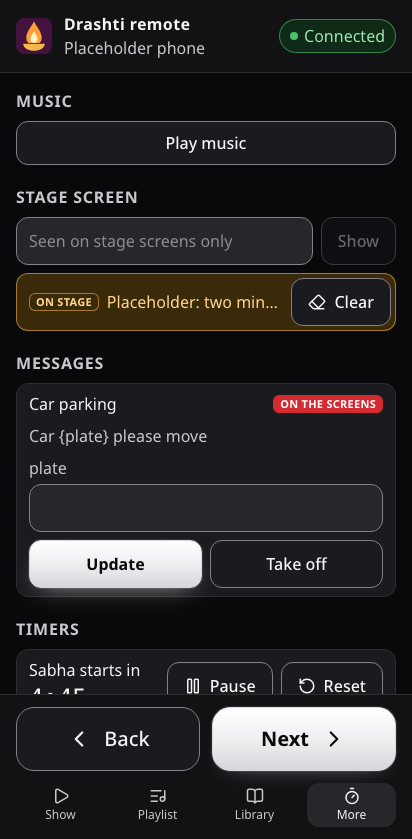
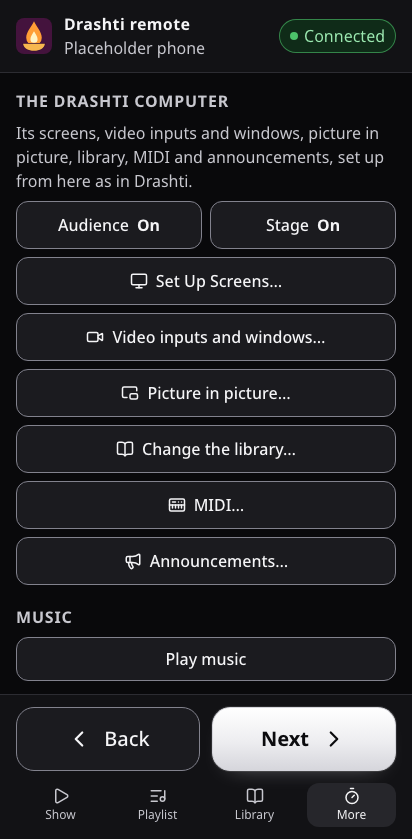
A phone's More starts with The Drashti computer, saying all it sets up there, its picture taken again (Session 54, the phone as a full Drashti)

diff --git a/src/renderer/src/web/remote/DesktopTools.tsx b/src/renderer/src/web/remote/DesktopTools.tsx
@@ -21,8 +21,9 @@ import { PipSheet } from './PipSheet';
 import { ScreensSheet, SwitchButtons } from './ScreensSheet';
 
 /*
- * The phone as a full Drashti (Session 54, the owner's item 3): in More, first, what the operator window's top bar
- * has for the computer's own screens (Audience and Stage, and Screens, opened here as a sheet); and over the
+ * The phone as a full Drashti (Session 54, the owner's item 3): in More, first, The Drashti computer: what the
+ * operator window's top bar has for its screens (Audience and Stage, and Screens, opened here as a sheet), then a
+ * sheet each for its video inputs and windows, picture in picture, library, MIDI and announcements; and over the
  * remote, the sheet open now and the window's questions asked on the phone: Keep these screens?, with its
  * countdown, once a change of this phone's waits for it (or the Screens sheet is open), and "Turn Audience off?"
  * before a switch goes off while its screens show something.
@@ -33,10 +34,11 @@ export function DesktopTools() {
   return (
     <section className="space-y-2" aria-labelledby="remote-desktop-title" data-testid="remote-desktop">
       <h2 id="remote-desktop-title" className="text-base font-bold tracking-wider text-muted uppercase">
-        Screens
+        The Drashti computer
       </h2>
       <p className="text-base text-muted">
-        The Drashti computer’s own screens, set up from here as in Drashti.
+        Its screens, video inputs and windows, picture in picture, library, MIDI and announcements, set up
+        from here as in Drashti.
       </p>
       <SwitchButtons />
       {problem && (

diff --git a/docs/design.md b/docs/design.md
@@ -254,7 +254,7 @@ The slide editor (`src/renderer/src/editor/`) covers the operator window, as Edi
 - **On the remote, LIVE is the live red, as everywhere**: the live slide's thumbnail and the live playlist item have a live border and the LIVE badge; Black-out and Logo turn the live colour while on and say so in words ("Black-out is on", "Logo is on", Session 26g, as Pro Mode and Simple Mode do), with no `aria-pressed` besides; Put it back turns warning when it can.
 - **The phones are Black, fixed** (Session 41; plum with the lamp's light from Session 26g until then): every phone and tablet page (`body.web`) takes Black's colours and its shadows' tints, the same on every phone, never Main's appearance; plain surfaces with no light anywhere, and `theme-color` Black's window colour (`#09090b`), so the phone's own bar matches. The mark beside "Drashti" on the pairing page, the remote's header and the announcements page, and the Home Screen icon, stay the logo's own. On the remote, Next is the white primary, the one primary on a phone's Show tab. The stage display is a screen and keeps the look it had (`body.output`). Every phone page passes axe in Black on a phone (375 × 812) and on a tablet (810 × 1080, and held sideways at 1080 × 810) in Safari's engine and Chrome's, with every target 44 px or more, while Main shows another appearance (`tests/e2e/phone-pages.spec.ts`); `src/main/contrast.test.ts` keeps `body.web` Black's.
 - **The remote mirrors the operator window** (Session 54, `web/remote/`, `shared/network-mirror.ts`): the clears in the window's order with their keys' names (Clear all F1, Slide F2, Background F3, Props F4, Audio F5, Messages F6, Ticker F7, Masks F8, Logo F12 and Black-out B, the keys as the computer has them, so with the single-letter keys off Black-out shows none), each layer's clear lit as on the layer bar (the live edge and a dot, "Clear slide (on screen)") and dimmed with nothing to clear, three to a row on a phone, and Put it back in Clear all's place in the warning colour; the Logo, with no logo chosen, says why in the window's own words (`NO_LOGO_CHOSEN` in `shared/props.ts`: "No logo has been chosen yet. Choose one in Pro Mode: Props, then “Use as the logo”."); under the live picture the time bars (§32), LIVE's own lines (a missing file, "Moves on by itself in 0:07"), then **Playing**, with Back 15 s, Forward 15 s and Last 10 s for the background video and the sound and their markers (the More tab's Jump to a marker is gone); each playlist item's second line, what it is and its length ("Video · 1:23", "Presentation · 5 slides", `item-line.ts`); what Next puts up, in words beside its picture, as Simple Mode's Next says it (`nextCaption` in `shared/next-caption.ts`, which both share: "…, slide 3", " (next item)", ", click 2", a missing file or sound); a Repeat Slides playlist going round from the phone as from Simple Mode (**Start going round** above its items, or Next with nothing up, from its first step; an item tapped goes round from its own first step, the item up marked; **Stop going round**); the library's **Presentations** and **Media** (a word of a name finds a picture, a video or a sound, 100 at a time; a tap puts a picture or video up as the background, the slide taken off, or plays a sound, and the one up says Live or Playing with **Take off**); and More in the right column's order: Music (**Play music** or **Pause music**, **Previous track** and **Next track**, and its audio playlists, each with **Play** from its first track, the one playing with **Pause** on its row and, paused, **Play** going on with its track where it was: `music-row.ts`), the Stage screen (the stage message with **Show**, then On stage with **Clear**, and the layout's timers under it, §18), Messages (**Show**, then **Update** while it is up), Timers (**Show on the screens**), Props, the Looks, Shastra, Lower thirds and the Idle rotation. A tablet uses its width (More in two columns held sideways, Media in cards), and a window 500 px tall or less, a phone held sideways, keeps a phone's tabs with Back and Next in reach (`SHORT`, `(max-height: 500px)`, in `web/remote/layout.ts`); Android puts the remote on its Home Screen as iOS does (`remote.html`). Still the computer's alone: video inputs, windows, setting up picture in picture, the Access List and the Announcements queue (the owner's item 3 brings the screens to the phone: below); a phone's empty places say where each is made ("There are no props yet: they are made in Drashti on the computer, under Props in Pro Mode.").
-- **The phone as a full Drashti** (Session 54, the owner's item 3; `shared/network-desktop.ts`, `main/network/desktop-answers.ts`, `web/remote/DesktopTools.tsx`): More starts with the top bar's **Screens**: **Audience** and **Stage** as switches (On and Off in words, Off in the warning colour) and **Set Up Screens…**, a sheet over the remote (`PhoneSheet.tsx`: full screen, Close at the top, the phone's own Back closing it, the safe areas kept) with the computer's Screens in its order, one column: Identify screens, Audience and Stage, the connected displays (each as the computer describes it, the controls' display marked, Add to and Use this display) and the screen groups (a new group; each group's name, Shows and Delete group; each screen's On, Remove, Sends, canvas, preset and scaling), every control 48 px tall. Each change is the window's own request (index.ts's `screenChanges`, one function for both), answered with the screens as they are after it. A change of the phone's that asks Keep these screens? asks it on that phone, an alertdialog over everything with its countdown in words and Keep holding the keyboard, as in the window; Turn Audience off? is asked there before Off, Cancel holding the keyboard. A phone never covers the controls: a body carrying more than its change (the window's `coverOperator` among them) is refused, and an output it would put on the controls' display, or a switch turned on that would open one there, is asked in the computer's own box, "Cover the Drashti controls?" (Cancel first and kept to; `coverBox`), one at a time, a phone told no waiting 15 s, the sheet saying how its ask stands. Simple Mode refuses on a phone what it refuses in the window: the setup's changes, while Keep, Go back, Identify and On stay.
+- **The phone as a full Drashti** (Session 54, the owner's item 3; `shared/network-desktop.ts`, `main/network/desktop-answers.ts`, `web/remote/DesktopTools.tsx`): More starts with **The Drashti computer**: the top bar's **Audience** and **Stage** as switches (On and Off in words, Off in the warning colour) and **Set Up Screens…**, a sheet over the remote (`PhoneSheet.tsx`: full screen, Close at the top, the phone's own Back closing it, the safe areas kept) with the computer's Screens in its order, one column: Identify screens, Audience and Stage, the connected displays (each as the computer describes it, the controls' display marked, Add to and Use this display) and the screen groups (a new group; each group's name, Shows and Delete group; each screen's On, Remove, Sends, canvas, preset and scaling), every control 48 px tall. Each change is the window's own request (index.ts's `screenChanges`, one function for both), answered with the screens as they are after it. A change of the phone's that asks Keep these screens? asks it on that phone, an alertdialog over everything with its countdown in words and Keep holding the keyboard, as in the window; Turn Audience off? is asked there before Off, Cancel holding the keyboard. A phone never covers the controls: a body carrying more than its change (the window's `coverOperator` among them) is refused, and an output it would put on the controls' display, or a switch turned on that would open one there, is asked in the computer's own box, "Cover the Drashti controls?" (Cancel first and kept to; `coverBox`), one at a time, a phone told no waiting 15 s, the sheet saying how its ask stands. Simple Mode refuses on a phone what it refuses in the window: the setup's changes, while Keep, Go back, Identify and On stay.
 - **The rest of the computer from a phone** (Session 54, the owner's item 3), each a sheet in More, each the window's own function (`desktop-answers.ts`), each checked in the main process (a Remote's alone, the lock's 503, Simple Mode's refusals by the window's own channel, strict bodies naming things by id only): video inputs and windows (`InputsSheet.tsx`; a camera only one the computer's window lists, a window only from the list just made, by name); the picture-in-picture box (`PipSheet.tsx`; the engine's `showPip`, `swapPip` and `placePip`, a Remote's since then, its source by id as the engine looks it up); the library (`LibrarySheet.tsx`; `playlist-ipc.ts`'s and `words-ipc.ts`'s changes shared with the window's requests, each delete answered with the ids its Undo sends back, library changes limited on their own, 5 a second, 30 at once); masks (`Masks.tsx` under Props; `mask.show` puts up the library's mask by its id, a phone never sending its shapes); MIDI (`MidiSheet.tsx`; only the operator window may use Web MIDI, so it reports what it sees over `midi:report`, and the main process asks it to listen or learn over `midi:ask`; a read asks it to listen only until it has, as a refused window flipping to asking and back would otherwise make a loop of reads; Learn off while the computer refuses MIDI); and the announcements' queue (`QueueSheet.tsx`; the service's own approve, reject and take off). A burst of changes sends a phone a burst of "changed": each list is read one at a time, once more after a burst (`web/one-at-a-time.ts`), and a request refused for coming too fast (429, so never done) is asked again a moment later, at most twice (`web/device.ts`).
 - **Pictures as sharp as the device shows them** (Session 54; 320 px previews until then): thumbnails draw the slide with the outputs' renderer, and every picture, slide and PDF page is asked for, once it is in view, at the width it is drawn at in the device's pixels (`drawnWidth` in `render/previews.tsx`, a step of `PICTURE_WIDTHS` in `shared/device-pictures.ts`, 320 to 7680), up to the original, and again when it is drawn bigger (a turn, the viewer's zoom settling); the sharpest is kept for every place that draws it (80 MB at most on the device, `web/previews.ts`). Drashti sends a JPEG, PNG, GIF or WebP no wider than asked as the file itself and makes any other once, with the bundled FFmpeg, off the main thread and one at a time, never wider than the original, turned as it is shown and see-through where it was (`main/network/renditions.ts`); it makes none while its disk has less than 2 GB free, and the phone keeps the one it has; one FFmpeg could not make is not tried again for five minutes (`FAILED_MS`), however often phones ask for it. One not ready yet is asked for again 15 s on, grey until it loads.
 - **Looking closer, on the device only** (Session 54, `web/viewer/`): **Look closer** (beside the live picture's heading, or a tap on the picture), **Look through** (the slides one by one, from the live one or the one found) and, on a playlist's and Media's picture and video rows, an icon button ("Look at “…” on this device", "Play “…” on this device") open the viewer over the whole page: its title, LIVE while it is up, and **Close** (Esc too) along the top, "3 of 12 · …" under it, and along the bottom "Zoom on this device" (Zoom out, Zoom in, All of it, and the level) and Previous and Next. Two fingers zoom and pan it on the device only, up to 400% (a double tap, 2.5×; + and − and the arrows from a keyboard, as its name says). A video plays there with its sound, its own file in pieces through a link signed for that device and file (6 h), and a sound the same, each with the time bar (§32) moving it on the device alone ("The video, on this device only"); one that cannot play says so ("This video cannot play on this device. Drashti still plays it on the screens."). A deck looked through plays click by click (`slidePages` in `web/viewer/pages.tsx`, `DeckStepPage.tsx`): a page for each click, its motion played once from its own clip (muted, inline, through a link made for the phone), then its last frame, so Next and Previous go a click at a time (Previous shows the click still, at its end), from the click the screens show. The phone's own Back (Android's back gesture, an iPhone's edge swipe) closes the viewer and leaves the remote as it was (`backCloses`); its bars keep clear of a notch and rounded corners held sideways; and it closes the moment Drashti stops, a video or sound playing there stopping with it, and stays closed once Drashti is let in again (`closeOnStop`).

diff --git a/docs/operator-guide.md b/docs/operator-guide.md
@@ -146,9 +146,9 @@ If the single-letter keys are turned off (**Keys at a glance**, below), **B**, *
 
 **The phone remote.** A paired phone or tablet's remote has much of this window: LIVE's picture with its lines and time bars, the clear buttons in their order with their keys' names, **Back 15 s**, **Forward 15 s** and **Last 10 s**, the music with **Play**, the stage message and the stage layout's timers, timers shown on the screens, props, lower thirds, the idle rotation, and the library's **Presentations** and **Media** (`docs/presenter-guide.md` has the phone's side). **Look closer**, or a tap on its live picture, shows the screens' picture full screen and sharp, to zoom with two fingers on the phone alone. While a picture is up on the screens (a picture slide, or a picture with no slide over it) and zoomed there on the phone, **Show this zoom on the screens** puts that zoom on every screen, as far as the screens can zoom, and **Back to Whole** undoes it (not in Simple Mode). **Look through** goes through a presentation's slides on the phone alone (a deck's click by click), and a picture or video in the playlist or **Media** has a button of its own to look at it, or play it, there. Since alpha.13 a phone sets up this computer's own things too (below); the Access List stays on the owner's computer.
 
-**This computer's screens from a phone** (since alpha.13). On a phone remote, **More** starts with **Screens**: **Audience** and **Stage**, and **Set Up Screens…**, which opens this computer's **Screens** on the phone: its displays as this computer sees them, the screen groups and each screen, changed as here. Turning **Audience** or **Stage** off asks **Turn Audience off?** on the phone first, as here, while its screens show something. A change that puts an output on a display asks **Keep these screens?** on that phone, with its countdown; nothing pressed, the screens go back by themselves. A phone never covers these controls by itself: when it would put an output on the display they are on, this computer asks **Cover the Drashti controls?** in its own box, and only **Cover the controls** here lets it. In Simple Mode a phone can turn a switch on, keep or go back, and change nothing else of the screens.
+**This computer's screens from a phone** (since alpha.13). On a phone remote, **More** starts with **The Drashti computer**: **Audience** and **Stage**, and **Set Up Screens…**, which opens this computer's **Screens** on the phone: its displays as this computer sees them, the screen groups and each screen, changed as here. Turning **Audience** or **Stage** off asks **Turn Audience off?** on the phone first, as here, while its screens show something. A change that puts an output on a display asks **Keep these screens?** on that phone, with its countdown; nothing pressed, the screens go back by themselves. A phone never covers these controls by itself: when it would put an output on the display they are on, this computer asks **Cover the Drashti controls?** in its own box, and only **Cover the controls** here lets it. In Simple Mode a phone can turn a switch on, keep or go back, and change nothing else of the screens.
 
-**The rest of this computer from a phone** (since alpha.13). Under **Screens**, a phone's **More** has: **Video inputs and windows…** (this computer's video inputs, named, changed and removed as **Media** does, choosing among the cameras this computer lists, and one put up as a click in **Media** puts it; another app's window from the list **Show a Window…** makes, by its name); **Picture in picture…** (a picture or video from **Media**, a video input, a window or the slides in the box, its corner and size, **Swap** and **Take off**); **Change the library…** (a presentation made from words; a playlist made, renamed or deleted; presentations and files from **Media** added to a playlist, moved up or down and taken out; each delete with **Undo**); **MIDI…** (the controller's device, chosen among those this computer lists; a mapping forgotten; **Learn**, which waits for a press on the controller here); and **Announcements…** (each waiting one put in the ticker or up as a message, or rejected; one on the screens taken off). **Masks** are under **Props**: **Show** puts one up as **Masks** does, **Take off** takes it off. The Mac's **Camera** and **Screen Recording** settings are answered here, never from a phone. In Simple Mode a phone is refused, in words, what this window refuses.
+**The rest of this computer from a phone** (since alpha.13). Under them, **The Drashti computer** has: **Video inputs and windows…** (this computer's video inputs, named, changed and removed as **Media** does, choosing among the cameras this computer lists, and one put up as a click in **Media** puts it; another app's window from the list **Show a Window…** makes, by its name); **Picture in picture…** (a picture or video from **Media**, a video input, a window or the slides in the box, its corner and size, **Swap** and **Take off**); **Change the library…** (a presentation made from words; a playlist made, renamed or deleted; presentations and files from **Media** added to a playlist, moved up or down and taken out; each delete with **Undo**); **MIDI…** (the controller's device, chosen among those this computer lists; a mapping forgotten; **Learn**, which waits for a press on the controller here); and **Announcements…** (each waiting one put in the ticker or up as a message, or rejected; one on the screens taken off). **Masks** are under **Props**: **Show** puts one up as **Masks** does, **Take off** takes it off. The Mac's **Camera** and **Screen Recording** settings are answered here, never from a phone. In Simple Mode a phone is refused, in words, what this window refuses.
 
 **Files and phones.** To let the phones look at a playlist's files, right-click the playlist and choose **Share with Phones and Tablets** (offered while a phone remote is paired): its row gets a mark, and the remote's **Library** has **Shared from Drashti** beside **Presentations** and **Media**, its files to look at and play on the phone only. **Stop Sharing**, in the same menu, ends it. With **Phones and tablets may add files** turned on in **Phones** (it is off until someone turns it on), the remote's **Media** has **Add from this Phone…** at its top: a picture, video, sound, PDF, PowerPoint (`.pptx`) or Keynote file, up to 2 GB, comes into **Media** and the playlist **Added from Phones**, marked with the phone's name. It never goes on the screens by itself, and a PDF, PowerPoint or Keynote file waits while the stream is on air or recording.
 

diff --git a/docs/presenter-guide.md b/docs/presenter-guide.md
@@ -45,7 +45,7 @@ On a phone, **Show**, **Playlist**, **Library** and **More** along the bottom ch
 
 ![More on an iPad held sideways, in two columns](screenshots/tablet-remote-more.png)
 
-The operator can always change the screens from the computer too; your page follows whatever is up. **More** starts with the computer's own things (**Screens**, **Video inputs and windows…**, **Picture in picture…**, **Change the library…**, **MIDI…** and **Announcements…**, and the masks under **Props**): those are the operator's, for setting up the hall; leave them to them.
+The operator can always change the screens from the computer too; your page follows whatever is up. **More** starts with **The Drashti computer** (its screens, **Video inputs and windows…**, **Picture in picture…**, **Change the library…**, **MIDI…** and **Announcements…**; and the masks under **Props**): those are the operator's, for setting up the hall; leave them to them.
 
 ## Looking closer, on your phone only
 
